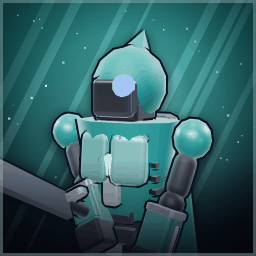
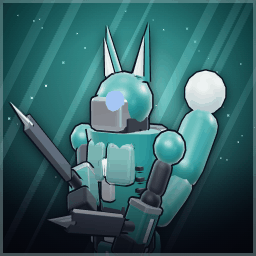
v7 stage C: visual polish + portraits matching new champs

diff --git a/js/render/vfx.js b/js/render/vfx.js
@@ -1,10 +1,12 @@
 // Pooled mesh VFX (rings, swipe arcs, light columns, decals, vine tubes, ghosts, falling streaks) and the auto-aim chevron.
+// Ground effects get a dark normal-blended underlay so additive color still reads on bright stone and grass in a crowd.
 import * as THREE from 'three';
 import { PAL } from '../config.js';
 import { shockTexture, runeTexture, radialTexture } from './atlas.js';
 import { HI } from './quality.js';
 
-const POOL = HI ? 64 : 40;
+const POOL = HI ? 64 : 40, SHADES = HI ? 32 : 20;
+const SHADE_KINDS = new Set(['ring', 'arc', 'decal', 'rune']);
 const ringGeo = new THREE.CircleGeometry(1, 40).rotateX(-Math.PI / 2); // shock texture paints the soft rim + faint fill
 const arcGeo = new THREE.RingGeometry(0.4, 1, 20, 1, -0.95, 1.9).rotateX(-Math.PI / 2); // planar UVs: bright leading edge
 const columnGeo = new THREE.CylinderGeometry(1, 1, 12, 16, 1, true);
@@ -46,6 +48,25 @@ class Vfx {
     this.tring.visible = false;
     this.tring.renderOrder = 5;
     scene.add(this.tring);
+    this.shades = [];
+    for (let i = 0; i < SHADES; i++) {
+      const mesh = new THREE.Mesh(ringGeo, new THREE.MeshBasicMaterial({ color: 0x070B18, map: shock, transparent: true, depthWrite: false, toneMapped: false }));
+      mesh.visible = false;
+      mesh.renderOrder = -1;
+      scene.add(mesh);
+      this.shades.push({ mesh, owner: null });
+    }
+  }
+
+  // Borrow a dark underlay for a ground effect; it copies the owner's transform each frame (see update).
+  _shade(it) {
+    const sh = this.shades.find((q) => !q.owner || !q.owner.on || q.owner.shade !== q);
+    if (!sh) return;
+    sh.owner = it; it.shade = sh;
+    sh.mesh.geometry = it.mesh.geometry;
+    const map = it.kind === 'rune' || it.kind === 'decal' ? this.flashTex : this.shock;
+    if (sh.mesh.material.map !== map) { sh.mesh.material.map = map; sh.mesh.material.needsUpdate = true; }
+    sh.mesh.visible = true;
   }
 
   _start(kind, geo, color, dur, size) {
@@ -54,16 +75,21 @@ class Vfx {
     it.mesh.geometry = geo;
     const map = kind === 'rune' ? this.runeTex : kind === 'flash' ? this.flashTex : geo === ringGeo || geo === arcGeo || geo === decalGeo ? this.shock : null, textured = !!map;
     if (it.mesh.material.map !== map) { it.mesh.material.map = map; it.mesh.material.needsUpdate = true; }
-    it.mesh.material.color.set(color).multiplyScalar(textured ? 1.6 : 1.2); // HDR-ish boost: additive and not tone-mapped
+    // HDR-ish boost (additive, not tone-mapped), capped per channel so pale colors keep their hue instead of clipping to white.
+    const c = it.mesh.material.color.set(color), mx = Math.max(c.r, c.g, c.b, 0.01);
+    c.multiplyScalar(Math.min(textured ? 1.6 : 1.2, 1.15 / mx));
     it.mesh.visible = true;
     it.mesh.rotation.set(0, 0, 0);
     it.mesh.quaternion.identity();
     it.mesh.scale.set(1, 1, 1);
+    it.shade = null;
     return it;
   }
 
   ring(x, y, z, color, size = 3, dur = 0.4) {
-    this._start('ring', ringGeo, color, dur, size).mesh.position.set(x, y, z);
+    const it = this._start('ring', ringGeo, color, dur, size);
+    it.mesh.position.set(x, y, z);
+    if (y < 0.6) this._shade(it);
   }
 
   // Crescent facing (dx, dz) — used for melee swipes.
@@ -71,10 +97,13 @@ class Vfx {
     const m = this._start('arc', arcGeo, color, dur, size).mesh;
     m.position.set(x, y, z);
     m.rotation.y = Math.atan2(-dz, dx);
+    if (y < 0.9) this._shade(this.items.find((i) => i.mesh === m));
   }
 
   column(x, z, color, dur = 0.9) {
-    this._start('column', columnGeo, color, dur, 1).mesh.position.set(x, 6, z);
+    const it = this._start('column', columnGeo, color, dur, 1);
+    it.mesh.position.set(x, 6, z);
+    it.mesh.material.color.multiplyScalar(0.7);
   }
 
   // Flat glowing disc on the ground that fades out (craters, area markers).
@@ -82,6 +111,7 @@ class Vfx {
     const m = this._start('decal', decalGeo, color, dur, size).mesh;
     m.position.set(x, 0.12, z);
     m.scale.set(size, size, size);
+    this._shade(this.items.find((i) => i.mesh === m));
   }
 
   // Afterimage: a squashed glowing blob that fades.
@@ -110,14 +140,16 @@ class Vfx {
   rune(x, z, color, size = 2.4, dur = 0.7) {
     const it = this._start('rune', decalGeo, color, dur, size);
     it.mesh.position.set(x, 0.16, z);
-    it.mesh.material.color.multiplyScalar(1.3);
+    it.mesh.material.color.multiplyScalar(0.8); // glyphs stay hue-true: several overlapping runes must not sum to white
+    this._shade(it);
   }
 
   // Camera-facing white-hot burst (cast release, skill impacts).
   flash(x, y, z, color, size = 1.5, dur = 0.2) {
     const it = this._start('flash', flashGeo, color, dur, size);
     it.mesh.position.set(x, y, z);
-    it.mesh.material.color.lerp(_white, 0.35);
+    it.mesh.material.color.lerp(_white, 0.18);
+    it.size = Math.min(size, 3.2);
   }
 
   // Thick energy beam from a to b that flares then thins out (hitscan skill shots).
@@ -138,12 +170,16 @@ class Vfx {
       if (!it.on) continue;
       it.age += dt;
       const u = it.age / it.dur;
-      if (u >= 1) { it.on = false; it.mesh.visible = false; continue; }
+      if (u >= 1) {
+        it.on = false; it.mesh.visible = false;
+        if (it.shade?.owner === it) { it.shade.mesh.visible = false; it.shade.owner = null; }
+        continue;
+      }
       const m = it.mesh;
       switch (it.kind) {
         case 'column':
           m.scale.set(1 - u, 1, 1 - u);
-          m.material.opacity = 0.7 * (1 - u);
+          m.material.opacity = 0.35 * (1 - u);
           break;
         case 'decal':
           m.material.opacity = 0.9 * (1 - u * u) * Math.min(1, u * 20); // holds, then fades: reads as a telegraph
@@ -152,14 +188,14 @@ class Vfx {
           const grow = Math.min(1, u * 6), s = it.size * (0.6 + 0.4 * (1 - (1 - grow) ** 3));
           m.scale.set(s, s, s);
           m.rotation.y = it.age * 2.2;
-          m.material.opacity = Math.min(1, u * 8) * (1 - u * u);
+          m.material.opacity = 0.8 * Math.min(1, u * 8) * (1 - u * u);
           break;
         }
         case 'flash': {
           if (this.camera) m.quaternion.copy(this.camera.quaternion);
           const s = it.size * (0.4 + 0.6 * Math.sqrt(u));
           m.scale.set(s, s, s);
-          m.material.opacity = 1 - u;
+          m.material.opacity = (1 - u) * Math.min(1, 1.8 / it.size); // big flashes stay translucent so stacked casts keep their hue
           break;
         }
         case 'beam': {
@@ -195,6 +231,13 @@ class Vfx {
           m.scale.set(s, s, s);
           m.material.opacity = 1 - u;
         }
+      }
+      const sh = it.shade;
+      if (sh?.owner === it) {
+        sh.mesh.position.copy(m.position).y -= 0.03;
+        sh.mesh.quaternion.copy(m.quaternion);
+        sh.mesh.scale.copy(m.scale).multiplyScalar(1.12);
+        sh.mesh.material.opacity = m.material.opacity * 0.55;
       }
     }
     const tg = this.target;

diff --git a/css/style.css b/css/style.css
@@ -19,6 +19,11 @@ svg { display: block; width: 100%; height: 100%; }
 .dnum.skill { font-size: 26px; color: var(--gold); }
 .dnum.taken { font-size: 20px; color: var(--gloom); }
 .dnum.go { animation: dnum .7s ease-out; }
+.callout { position: absolute; left: 0; top: 0; opacity: 0; white-space: nowrap; font-weight: 800; font-size: 15px; letter-spacing: .04em; text-transform: uppercase; color: #fff; padding: 2px 9px; border-radius: 8px; border: 2px solid var(--ink); background: var(--sunny); translate: -50% -100%; pointer-events: none; will-change: transform, opacity; }
+.callout.foe { background: var(--gloom); }
+.callout.ult { font-size: 19px; padding: 3px 12px; box-shadow: 0 0 0 3px rgba(255,200,61,.85), 0 4px 0 rgba(0,0,0,.35); }
+.callout.go { animation: callout 1.1s ease-out; }
+@keyframes callout { 0% { opacity: 0; transform: translateY(8px) scale(.6); } 12% { opacity: 1; transform: translateY(0) scale(1.08); } 22% { transform: scale(1); } 75% { opacity: 1; } 100% { opacity: 0; transform: translateY(-18px); } }
 @keyframes dnum { 0% { transform: translateY(0) scale(1.5); opacity: 1; } 20% { transform: translateY(-8px) scale(1); } 70% { opacity: 1; } 100% { transform: translateY(-34px) scale(.9); opacity: 0; } }
 .bar.t0 i { background: var(--sunny); }
 .bar.t1 i { background: var(--gloom); }
@@ -34,7 +39,8 @@ svg { display: block; width: 100%; height: 100%; }
 #hud[hidden] { display: none; }
 .portrait { position: absolute; left: calc(14px + var(--sl)); top: calc(12px + var(--st)); width: 76px; height: 76px; border-radius: 50%; filter: drop-shadow(0 4px 0 rgba(0,0,0,.3)); }
 .portrait .ring { position: absolute; inset: 0; border-radius: 50%; border: 4px solid var(--ink); background: conic-gradient(var(--sunny) calc(var(--p, 100) * 1%), rgba(11,16,32,.7) 0); }
-.portrait .face { position: absolute; inset: 9px; border-radius: 50%; background: var(--ink); padding: 5px; }
+.portrait .face { position: absolute; inset: 7px; border-radius: 50%; background: var(--ink); overflow: hidden; }
+.portrait .face img, .takedown i img { display: block; width: 100%; height: 100%; border-radius: 50%; object-fit: cover; object-position: 50% 30%; scale: 1.18; }
 .top { position: absolute; top: calc(8px + var(--st)); left: 50%; transform: translateX(-50%); display: flex; flex-direction: column; align-items: center; gap: 3px; }
 .score { display: flex; align-items: center; gap: 8px; padding: 2px 10px; border: 2px solid var(--ink); background: var(--panel); font-weight: 700; font-size: 18px; line-height: 26px; -webkit-text-stroke: 3px var(--ink); paint-order: stroke fill; clip-path: polygon(8px 0, calc(100% - 8px) 0, 100% 100%, 0 100%); }
 .score b { min-width: 22px; text-align: center; }
@@ -84,7 +90,7 @@ body.touch.playing #touch { display: block; }
 .portrait .xp { position: absolute; inset: -7px; border-radius: 50%; background: conic-gradient(var(--gold) calc(var(--p, 0) * 1%), rgba(11,16,32,.65) 0); }
 .portrait .lvl { position: absolute; right: -10px; bottom: -8px; min-width: 32px; height: 32px; padding: 0 4px; display: flex; align-items: center; justify-content: center; border-radius: 16px; border: 3px solid var(--ink); background: var(--gold); color: var(--ink); font-size: 20px; font-weight: 800; line-height: 1; }
 .takedown { position: absolute; left: 50%; top: calc(66px + var(--st)); translate: -50% 0; display: flex; align-items: center; gap: 6px; opacity: 0; }
-.takedown i { width: 46px; height: 46px; padding: 4px; border-radius: 50%; border: 3px solid var(--ink); background: var(--ink); }
+.takedown i { width: 50px; height: 50px; border-radius: 50%; border: 3px solid var(--ink); background: var(--ink); overflow: hidden; }
 .takedown s { width: 34px; height: 34px; }
 .takedown.pop { animation: takedown 2s ease-out; }
 @keyframes takedown { 0% { scale: .3; opacity: 0; } 12% { scale: 1.12; opacity: 1; } 22% { scale: 1; } 80% { opacity: 1; } 100% { scale: 1; opacity: 0; } }
@@ -211,6 +217,7 @@ h1 { font-size: clamp(38px, 11vh, 84px); line-height: .92; letter-spacing: 2px; 
 .title h1 span:last-child { color: var(--gloom); margin-top: -.04em; text-shadow: 4px 4px 0 var(--ink), 3px 0 0 rgba(255,77,94,.4); }
 h2 { font-size: clamp(30px, 9vh, 60px); font-style: italic; text-transform: uppercase; }
 .parade { display: flex; gap: clamp(4px, 1vw, 12px); height: clamp(30px, 9vh, 58px); }
+.parade i img { display: block; width: 100%; height: 100%; clip-path: polygon(50% 0, 100% 25%, 100% 75%, 50% 100%, 0 75%, 0 25%); }
 .parade i { width: clamp(30px, 9vh, 58px); filter: drop-shadow(0 3px 0 rgba(0,0,0,.4)); animation: bob 2.2s ease-in-out infinite; animation-delay: calc(var(--i) * -.18s); }
 .btn { min-width: 130px; height: 52px; padding: 0 22px; border: 2px solid rgba(255,255,255,.6); background: linear-gradient(180deg, #2A3656, #151C33); color: #fff; font-family: inherit; font-weight: 700; font-size: 18px; line-height: 1; letter-spacing: .12em; cursor: pointer;
   clip-path: polygon(14px 0, 100% 0, 100% calc(100% - 14px), calc(100% - 14px) 100%, 0 100%, 0 14px); }

diff --git a/js/ui/hud.js b/js/ui/hud.js
@@ -4,6 +4,9 @@ import * as THREE from 'three';
 import { HERO, GROUND } from '../config.js';
 import { bus } from '../core/bus.js';
 import { icons } from './icons.js';
+
+// Rendered bust of the champion (assets/portraits, same art as champion select).
+const face = (def) => `<img src="assets/portraits/${def.id}.png" alt="" draggable="false" style="--c:${def.css}">`;
 import { Abilities } from './abilities.js';
 import { LevelUp } from './levelup.js';
 import { Minimap } from './minimap.js';
@@ -45,6 +48,15 @@ export class Hud {
       this.nums.push(el);
     }
     bus.on('dmg', (e) => this._num(e));
+    this.calls = []; this.callAt = 0;
+    for (let i = 0; i < 6; i++) {
+      const el = document.createElement('div');
+      el.className = 'callout';
+      el.addEventListener('animationend', () => el.classList.remove('go'));
+      barsRoot.appendChild(el);
+      this.calls.push(el);
+    }
+    bus.on('cast', (e) => this._callout(e));
     this.ring = root.querySelector('.ring');
     this.xp = root.querySelector('.xp');
     this.face = root.querySelector('.portrait .face');
@@ -98,8 +110,8 @@ export class Hud {
       this.banner.classList.add('pop');
     });
     bus.on('takedown', ({ killer, victim }) => {
-      this.take.querySelector('.k').innerHTML = icons.champ(killer.def);
-      this.take.querySelector('.v').innerHTML = icons.champ(victim.def);
+      this.take.querySelector('.k').innerHTML = face(killer.def);
+      this.take.querySelector('.v').innerHTML = face(victim.def);
       this.take.classList.remove('pop');
       void this.take.offsetWidth;
       this.take.classList.add('pop');
@@ -126,7 +138,7 @@ export class Hud {
   // (Re)build everything that depends on which heroes are in the match.
   _setup() {
     const m = this.match, hero = m.hero;
-    this.face.innerHTML = icons.champ(hero.def);
+    this.face.innerHTML = face(hero.def);
     this.root.style.setProperty('--hero', hero.def.css);
     this.abilities.setHero(hero);
     this.shop.reset();
@@ -165,7 +177,21 @@ export class Hud {
     el.style.top = `${((-v.y * 0.5 + 0.5) * this.h).toFixed(0)}px`;
   }
 
-  hide() { this.root.hidden = true; this.shown = false; this.barsRoot.replaceChildren(...this.nums); this.bars.length = 0; this.levelup.hide(); }
+  // Skill-name callout over the caster: every ult (team colored), plus the player's own Q / E.
+  _callout({ hero, slot }) {
+    const me = this.match?.hero;
+    if (!this.shown || !me || !hero || (slot !== 2 && hero !== me) || (hero.hidden && hero.team !== me.team)) return;
+    const ab = hero.def[['s1', 's2', 'ult'][slot]];
+    const v = this._v.set(hero.rx ?? hero.x, GROUND + (hero.barY ?? 1.5) + 0.9, hero.rz ?? hero.z).project(this.camera);
+    if (!ab || v.z > 1 || Math.abs(v.x) > 1.05 || Math.abs(v.y) > 1.05) return;
+    const el = this.calls[this.callAt++ % this.calls.length];
+    el.textContent = ab.name;
+    el.className = `callout go ${slot === 2 ? 'ult' : ''} ${hero.team === me.team ? 'ally' : 'foe'}`;
+    el.style.left = `${((v.x * 0.5 + 0.5) * this.w).toFixed(0)}px`;
+    el.style.top = `${((-v.y * 0.5 + 0.5) * this.h).toFixed(0)}px`;
+  }
+
+  hide() { this.root.hidden = true; this.shown = false; this.barsRoot.replaceChildren(...this.nums, ...this.calls); this.bars.length = 0; this.levelup.hide(); }
 
   update(dt = 0.016) {
     if (!this.shown) return;

diff --git a/scripts/portrait.html b/scripts/portrait.html
@@ -77,21 +77,34 @@ function finish(g, def) {
   g.strokeStyle = mix(def.color, 0xffffff, 0.35) + '66'; g.lineWidth = 3; g.strokeRect(1.5, 1.5, OUT - 3, OUT - 3);
 }
 
+// Per-silhouette framing tweaks: weapon arm pose so the signature weapon crosses the bust, and turn so back pieces show.
+const POSE = { float: [-0.6, 0, 0.75], stomp: [-0.45, 0, 0.5] };
 window.portrait = (id) => {
-  const def = HEROES[id], m = def.buildModel(0);
+  const def = HEROES[id], m = def.buildModel(0), spec = def.model;
   const fx = def.fx?.color ?? def.basic?.color ?? def.accent;
   rimL.color.set(fx); rimR.color.set(mix(def.accent, 0xffffff, 0.4));
-  // Hero pose: weapon arm cocked out to the side, off hand slightly forward; body turned to a 3/4 view.
-  m.arms[0].rotation.set(-0.35, 0, 0.55);
-  m.arms[1].rotation.set(-0.3, 0, -0.2);
-  m.root.rotation.y = -0.45;
+  // Hero pose: weapon arm raised out front-side so the weapon reads, off hand relaxed; body in a 3/4 turn
+  // (enough to reveal back pieces like banners, tails, cloaks and speakers beside the torso).
+  m.arms[0].rotation.set(...(POSE[m.style] ?? [-0.75, 0, 0.6]));
+  m.arms[1].rotation.set(-0.25, 0, -0.25);
+  m.root.rotation.y = -0.6;
+  if (m.halo) m.halo.rotation.y = 0.5;
   scene.add(m.root);
   m.root.updateMatrixWorld(true);
-  // Frame head + shoulders around the visor: ~2 units tall, eyes in the upper third.
-  const eye = m.eyes.getWorldPosition(new THREE.Vector3()), viewH = 2.05 * (def.model.w ?? 1);
+  // Frame from the top of the tallest headgear/halo down to the hips, centred on the upper-body bounds, so the bust
+  // carries the whole identity (antlers, hats, ears, weapon heads) instead of just a visor close-up.
+  const eye = m.eyes.getWorldPosition(new THREE.Vector3()), hipY = eye.y - 1.35 * (spec.h ?? 1);
+  const box = new THREE.Box3();
+  m.root.traverse((o) => {
+    if (!o.isMesh) return;
+    const b = new THREE.Box3().setFromObject(o);
+    if (b.max.y > hipY) box.union(b.intersect(new THREE.Box3(new THREE.Vector3(-9, hipY, -9), new THREE.Vector3(9, 9, 9))));
+  });
+  const top = Math.min(box.max.y, eye.y + 1.15), w = box.max.x - box.min.x;
+  const viewH = THREE.MathUtils.clamp(Math.max(top - hipY + 0.3, w * 0.8), 2.3, 2.85);
   const dist = viewH / 2 / Math.tan(THREE.MathUtils.degToRad(camera.fov / 2));
-  const aim = new THREE.Vector3(0, eye.y - viewH * 0.17, 0);
-  camera.position.set(aim.x + 0.2, aim.y + 0.45, dist);
+  const aim = new THREE.Vector3((box.min.x + box.max.x) / 2 * 0.6, top + 0.22 - viewH / 2, 0);
+  camera.position.set(aim.x + 0.3, aim.y + 0.55, dist);
   camera.lookAt(aim);
   renderer.render(scene, camera);
   scene.remove(m.root);

diff --git a/js/game/projectiles.js b/js/game/projectiles.js
@@ -8,7 +8,7 @@ import { dealDamage } from './combat.js';
 import { inCover } from '../world/arena.js';
 
 const POOL = 48;
-const geo = new THREE.SphereGeometry(0.2, 8, 6);
+const geo = new THREE.SphereGeometry(0.24, 10, 8);
 const tailGeo = new THREE.CylinderGeometry(0.03, 0.2, 1, 6, 1, true).translate(0, 0.5, 0); // head at origin, tail along +Y
 const UP = new THREE.Vector3(0, 1, 0), _back = new THREE.Vector3();
 let glowTex;
@@ -25,6 +25,10 @@ export class Projectiles {
       const halo = new THREE.Sprite(new THREE.SpriteMaterial({ map: glowTex, blending: THREE.AdditiveBlending, transparent: true, depthWrite: false, toneMapped: false }));
       halo.scale.setScalar(2.3);
       mesh.add(halo);
+      // Dark inverted-hull outline: the bright core keeps a crisp edge over sunlit stone and other glows.
+      const rim = new THREE.Mesh(geo, new THREE.MeshBasicMaterial({ color: 0x0B1022, side: THREE.BackSide, toneMapped: false }));
+      rim.scale.setScalar(1.35);
+      mesh.add(rim);
       mesh.visible = false;
       scene.add(mesh);
       const tail = new THREE.Mesh(tailGeo, new THREE.MeshBasicMaterial({ transparent: true, opacity: 0.6, blending: THREE.AdditiveBlending, depthWrite: false, toneMapped: false }));
@@ -46,14 +50,14 @@ export class Projectiles {
     p.color = opts.color ?? TEAM[src.team].main;
     p.frame = opts.frame ?? FRAME.dot;
     p.onHit = opts.onHit ?? null;
-    p.mesh.material.color.set(p.color).lerp(_white, opts.core ?? 0.65); // white-hot core inside a colored glow
+    p.mesh.material.color.set(p.color).lerp(_white, opts.core ?? 0.45); // white-hot core inside a colored glow
     p.mesh.children[0].material.color.set(p.color);
     p.mesh.children[0].scale.setScalar(opts.halo ?? 2.3);
     p.mesh.scale.setScalar(opts.size ?? 1);
     p.mesh.position.set(p.sx, p.sy, p.sz);
     p.mesh.visible = true;
     p.tail.material.color.set(p.color).multiplyScalar(1.5);
-    p.tail.scale.set(opts.size ?? 1, (1.6 + speed * 0.07) * (opts.tail ?? 1), opts.size ?? 1);
+    p.tail.scale.set((opts.size ?? 1) * 1.2, (2.2 + speed * 0.1) * (opts.tail ?? 1), (opts.size ?? 1) * 1.2); // long comet tail: travel direction reads at a glance
     const fx = tgt.x - src.x, fz = tgt.z - src.z, fd = Math.hypot(fx, fz) || 1;
     p.tail.position.set(p.sx, p.sy, p.sz);
     p.tail.quaternion.setFromUnitVectors(UP, _back.set(-fx / fd, 0, -fz / fd));

diff --git a/js/render/atlas.js b/js/render/atlas.js
@@ -134,9 +134,9 @@ export const rockDetail = () => detailTex(256, (g, S, wrap) => {
 // Soft-edged ring with a bright rim and a faint inner fill: shockwaves, telegraphs, slashes (on planar-UV ring / circle geometry).
 export const shockTexture = () => canvasTex(128, 128, (g) => {
   const gr = g.createRadialGradient(64, 64, 0, 64, 64, 64);
-  gr.addColorStop(0, 'rgba(255,255,255,0.06)');
-  gr.addColorStop(0.62, 'rgba(255,255,255,0.22)');
-  gr.addColorStop(0.86, 'rgba(255,255,255,0.75)');
+  gr.addColorStop(0, 'rgba(255,255,255,0.03)'); // nearly empty middle: stacked rings in a teamfight add up rims, not a white sheet
+  gr.addColorStop(0.62, 'rgba(255,255,255,0.12)');
+  gr.addColorStop(0.86, 'rgba(255,255,255,0.7)');
   gr.addColorStop(0.95, 'rgba(255,255,255,1)');
   gr.addColorStop(1, 'rgba(255,255,255,0)');
   g.fillStyle = gr;

diff --git a/js/heroes/behaviors.js b/js/heroes/behaviors.js
@@ -819,7 +819,8 @@ const BASICS = {
   melee(h, ctx, t, b, dmg) {
     const dx = t.x - h.x, dz = t.z - h.z, d = Math.hypot(dx, dz) || 1, col = b.color ?? fx(h).accent;
     SWINGS[b.style ?? 'slash'](h, t, dx / d, dz / d, col, b);
-    vfx.flash(t.x, (t.hitY ?? 1) + 0.2, t.z, col, 1.2, 0.14);
+    vfx.arc(h.x, 0.2, h.z, dx / d, dz / d, col, h.basicRange * 1.05, 0.28); // ground crescent: every swing leaves a readable sweep
+    vfx.flash(t.x, (t.hitY ?? 1) + 0.2, t.z, col, 1.4, 0.16);
     const strike = (e, m = 1) => {
       let k = dmg * m;
       if (b.lowBonus && e.type === 'hero' && e.hp < e.maxHp * 0.5) k *= 1 + b.lowBonus;

diff --git a/js/ui/menus.js b/js/ui/menus.js
@@ -78,7 +78,7 @@ export function createMenus(root) {
     hideAll() { clearInterval(tick); root.innerHTML = ''; },
 
     showTitle(onPlay, onOnline) {
-      const row = ROSTER.map((id, i) => `<i style="--i:${i}">${icons.champ(HEROES[id])}</i>`).join('');
+      const row = ROSTER.map((id, i) => `<i style="--i:${i};--c:${HEROES[id].css}">${portrait(id)}</i>`).join('');
       show('title modal', `
         <div class="kicker">TEAM ARENA · 5 v 5</div>
         <h1><span>Starlane</span><span>Scuffle</span></h1>

diff --git a/js/heroes/hero.js b/js/heroes/hero.js
@@ -612,7 +612,7 @@ export class Hero {
     this.shadow.scale.setScalar(1.9 * (1 - (hop + this.lift) * 0.2));
     this.ring.rotation.y = t * 1.5;
     this.ring.scale.setScalar(1 + Math.sin(t * 4) * 0.05);
-    const f = this.flash > 0 ? 1 : 0;
+    const f = this.flash > 0 ? 0.6 : 0; // strong but partial: the champion's colors still read mid-teamfight
     for (const mat of m.mats) mat.userData.flash.value = f;
 
     if (this.shieldT > 0 && this.shieldHp > 0) { // shield dome

diff --git a/js/render/fx.js b/js/render/fx.js
@@ -72,7 +72,7 @@ const DOME_FRAG = /* glsl */ `
   varying vec3 vN; varying vec3 vV;
   void main() {
     float f = pow(1.0 - abs(dot(normalize(vN), normalize(vV))), 2.0);
-    gl_FragColor = vec4(uCol, (0.14 + 0.75 * f) * uA);
+    gl_FragColor = vec4(uCol, (0.06 + 0.7 * f) * uA); // clear middle so the champion inside stays visible
     #include <colorspace_fragment>
   }`;
 
